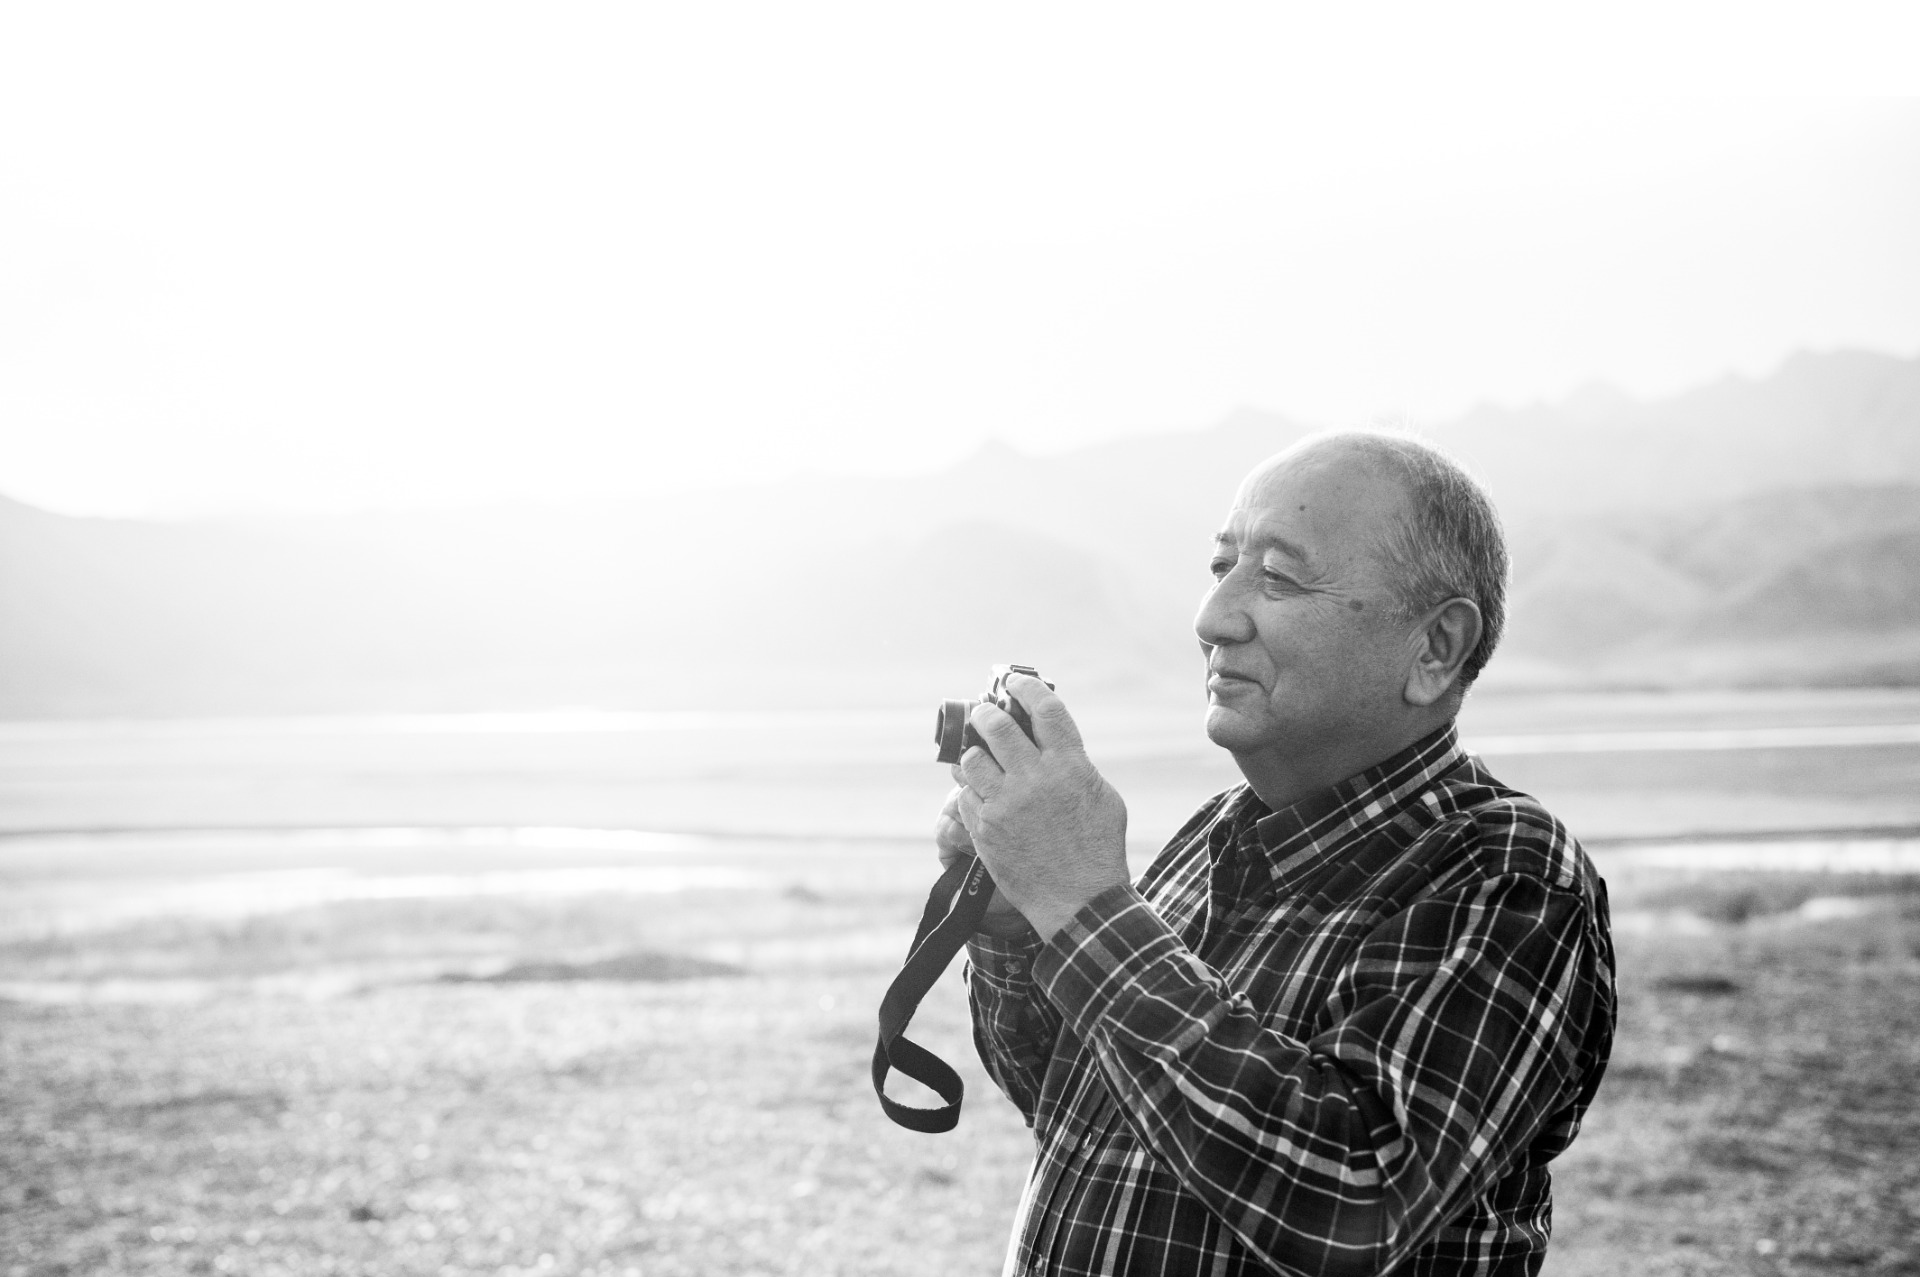
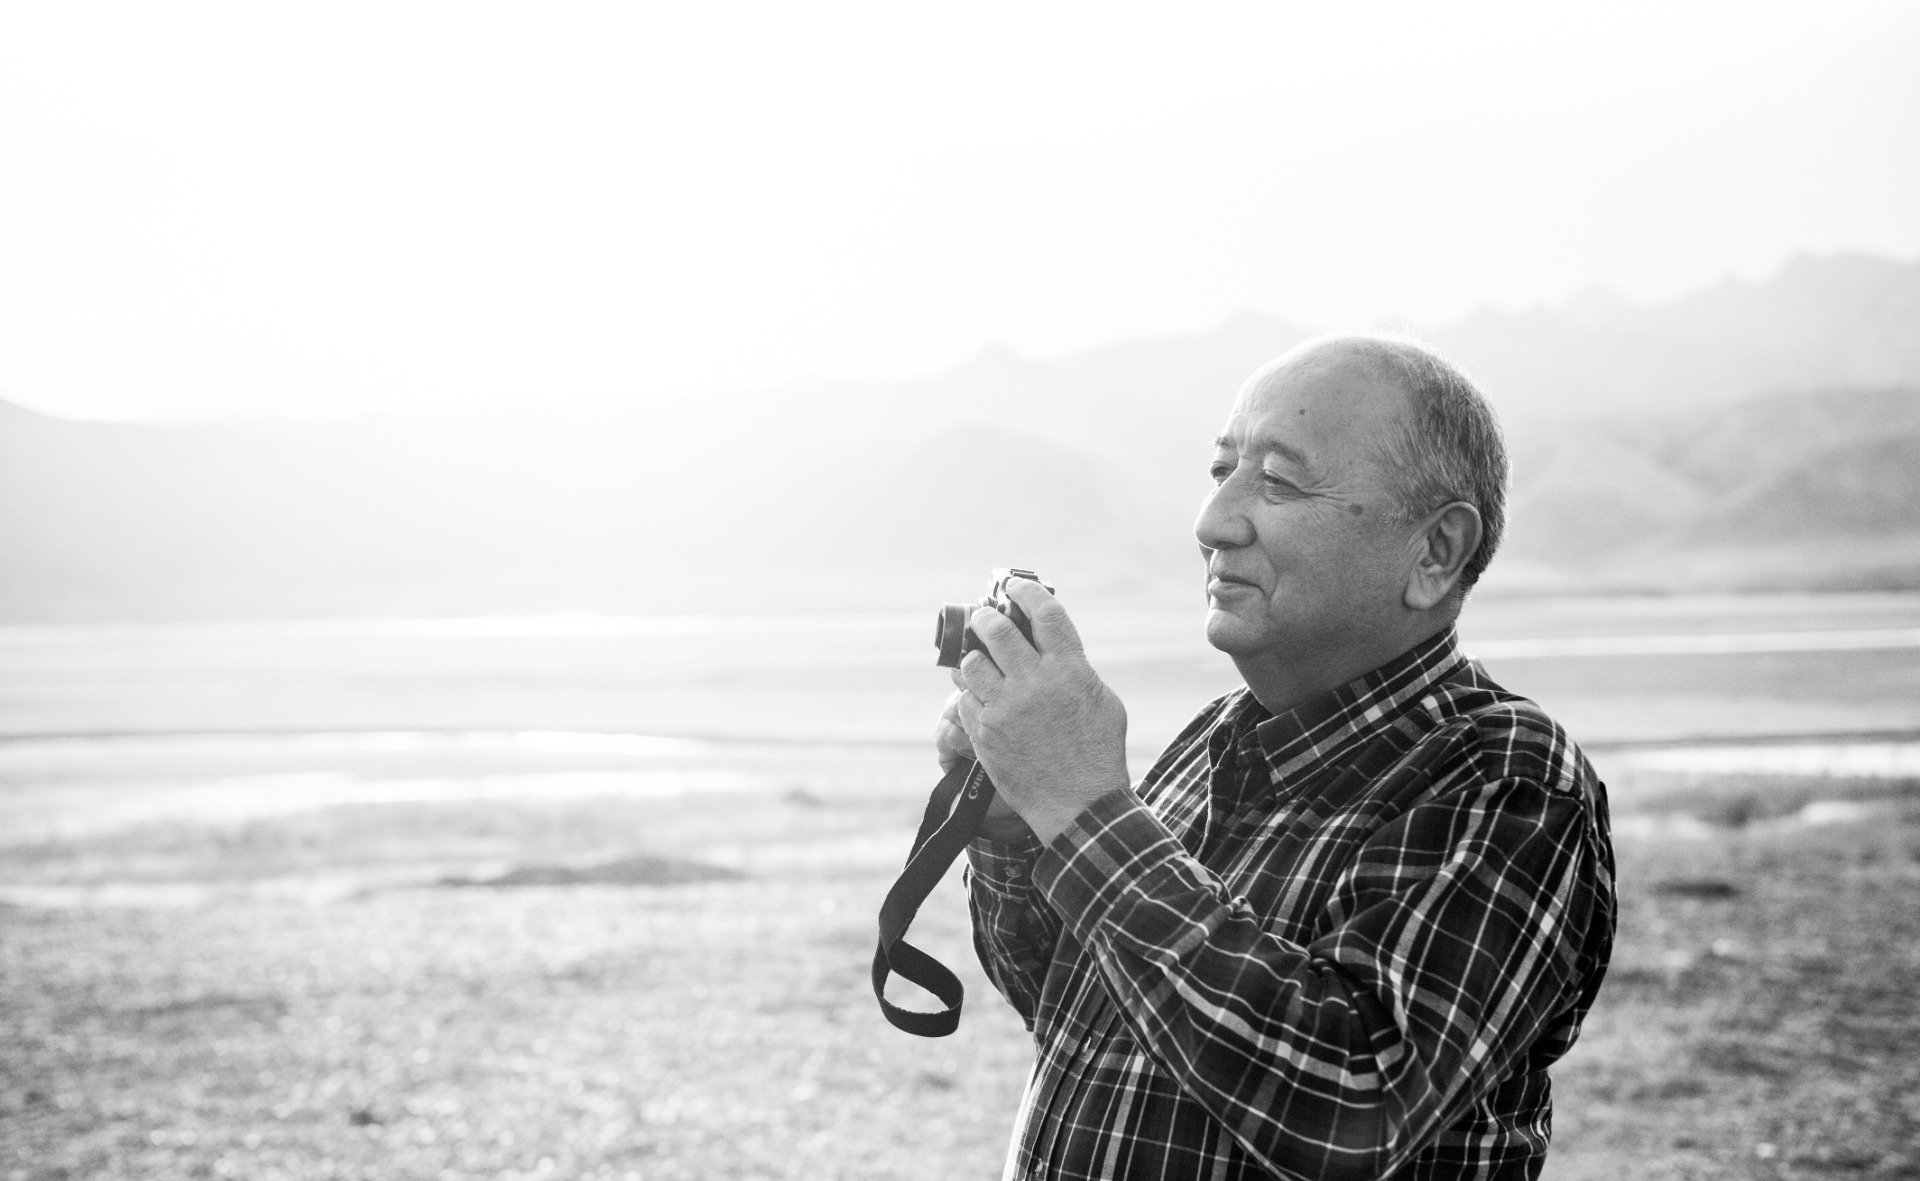
Update1

diff --git a/perene-styles.css b/perene-styles.css
@@ -1,18 +1,148 @@
 body {
-    margin: 0;
-    padding: 0;
-    background-color: #222222;
-    width: 100%;
-    position: absolute;
-    display: flex;
-    flex-direction: row;
-    justify-content: center;
-    left: 0;
-    top: 145px;
+  margin: 0;
+  padding: 0;
+  background-color: #222222;
+  max-width: 100vw;
+}
+main {
+  margin: 0;
+  padding: 0;
+  position: relative;
+}
+.topbarmain {
+  background-color: #ffffff;
+  max-width: 1920px;
+  max-height: 145px;
+}
+nav {
+  display: flex;
+  justify-content: space-around;
+  align-items: center;
+  min-height: 145px;
+  background-color: #ffffff;
+  font-family: "Montserrat";
+  font-weight: SemiBold;
+  font-size: 30px;
+}
+.logo-box {
+  margin-left: -20px;
+}
+.search-box
+{
+  margin-left: -200px;
+}
+.logo-top {
+  height: 75px;
+}
+.topbar-hiper {
+  display: inline-block;
+  line-height: 80px;
+  text-decoration: none;
+  color: #222222;
+  font-family: "Montserrat";
+  font-size: 30px;
+  font-weight: SemiBold;
+  margin: 0 5px;
+}
+.topbar-ul {
+  display: flex;
+  justify-content: space-around;
+  width: 55%;
+  text-decoration: none;
+  list-style: none;
+  margin-right: 5%;
+}
+.search-top
+{
+  width: 40px;
+  height: 40px;
+}
+.burger
+{
+  display: none;
+}
+.burger div
+{
+  width:25px;
+  height: 3px;
+  background-color: #222222;
+  margin: 5px;
+  border-top-left-radius: 3px 2px;
+  border-bottom-left-radius: 3px 2px;
+  border-top-right-radius: 3px 2px;
+  border-bottom-right-radius: 3px 2px;
+
+}
+h1 {
+  color: #222222;
+  position: absolute;
+  text-align: left;
+  font-family: "Montserrat";
+  font-size: 100px;
+  font-weight: bold;
+}
+
+.herofoto {
+  position: relative;
+  margin: 0;
+  padding: 0;
+  height: 100vh;
+  z-index: 0;
+}
+.hero-image {
+  position: absolute;
+  top: 0;
+  width: 100%;
+  height: 100%;
+  object-fit: cover;
+}
+.hero-text1 {
+  color: #222222;
+  position: absolute;
+  text-align: left;
+  font-family: "Montserrat";
+  font-size: 100px;
+  font-weight: bold;
+  top: 310px;
+  left: 110px;
+  margin: 0;
+}
+.hero-text2 {
+  color: #222222;
+  position: absolute;
+  text-align: left;
+  font-family: "Montserrat";
+  font-size: 40px;
+  font-weight: medium;
+  top: 420px;
+  left: 112px;
+  margin: 0;
+}
+.hero-text-wrap {
+  position: relative;
+  padding-top: 10%;
+  padding-left: 10%;
+  z-index: 1;
+}
+@media screen and (max-width:1024px){
+  
+}
+
+@media screen and (max-width:768px){
+  body{
+    overflow-x: hidden;
   }
-  header.topbarmain
+  .topbar-ul
   {
-    background-color: #FFFFFF;
-    max-width: 1920px;
-    max-height: 145px;
+    position: absolute;
+    right: 0px;
+    height: 92vh;
+    top: 8vh;
+    display: flex;
+    background-color: #ffffff;
+    flex-direction: column;
+    align-items: center;
+    width: 50%;
+    transform: translateX(100%);
   }
+}

diff --git a/Perene main.html b/Perene main.html
@@ -5,17 +5,49 @@
     <meta name="author" content="Grupo Perene" />
     <meta name="keywords" content="Perene, Photovoice, Idosos" />
     <meta name="description" content="" />
+    <meta name="viewport" content="width=device-width, initial-scale=1.0" />
     <title>Perene - Photovoice com pessoas mais velhas</title>
     <link rel="stylesheet" href="perene-styles.css" />
   </head>
-<main>
-    <header class="topbarmain">
-        
-    </header>
-    <aside class="foto">
-        <img src="imagens/hero_image.png" alt="Hero Image" class="hero-image" />
-      </aside>
-</main>
-
-
+  <body>
+    <main>
+      <header class="topbarmain">
+        <nav>
+          <div class="logo-box">
+            <a href="Perene main.html"
+              ><img src="imagens/logotopbar.png" alt="Logo topbar"
+              class="logo-top"
+            </a>
+          </div>
+          <ul class="topbar-ul">
+            <li><a class="topbar-hiper" href="#galeriastart">Galeria</a></li>
+            <li><a class="topbar-hiper" href="Equipa.html">Equipa</a></li>
+            <li><a class="topbar-hiper" href="Parcerias.html">Parcerias</a></li>
+            <li><a class="topbar-hiper" href="Sobre.html">Sobre</a></li>
+            <li><a class="topbar-hiper" href="Contactos.html">Contactos</a></li>
+          </ul>
+          <div class="search-box">
+            <img src="imagens/search_icon.svg" alt="search topbar" class="search-top">
+          </div>
+          
+          <div class="burger">
+            <div class="line1"></div>
+            <div class="line2"></div>
+            <div class="line3"></div>
+          </div>
+        </nav>
+      </header>
+      <div class="herofoto">
+        <img
+          src="/imagens/hero_image.png"
+          alt="Hero Image"
+          class="hero-image"
+        />
+        <div class="hero-text-wrap">
+          <p class="hero-text1">PHOTOVOICE</p>
+          <p class="hero-text2">com pessoas mais velhas</p>
+        </div>
+      </div>
+    </main>
+  </body>
 </html>
